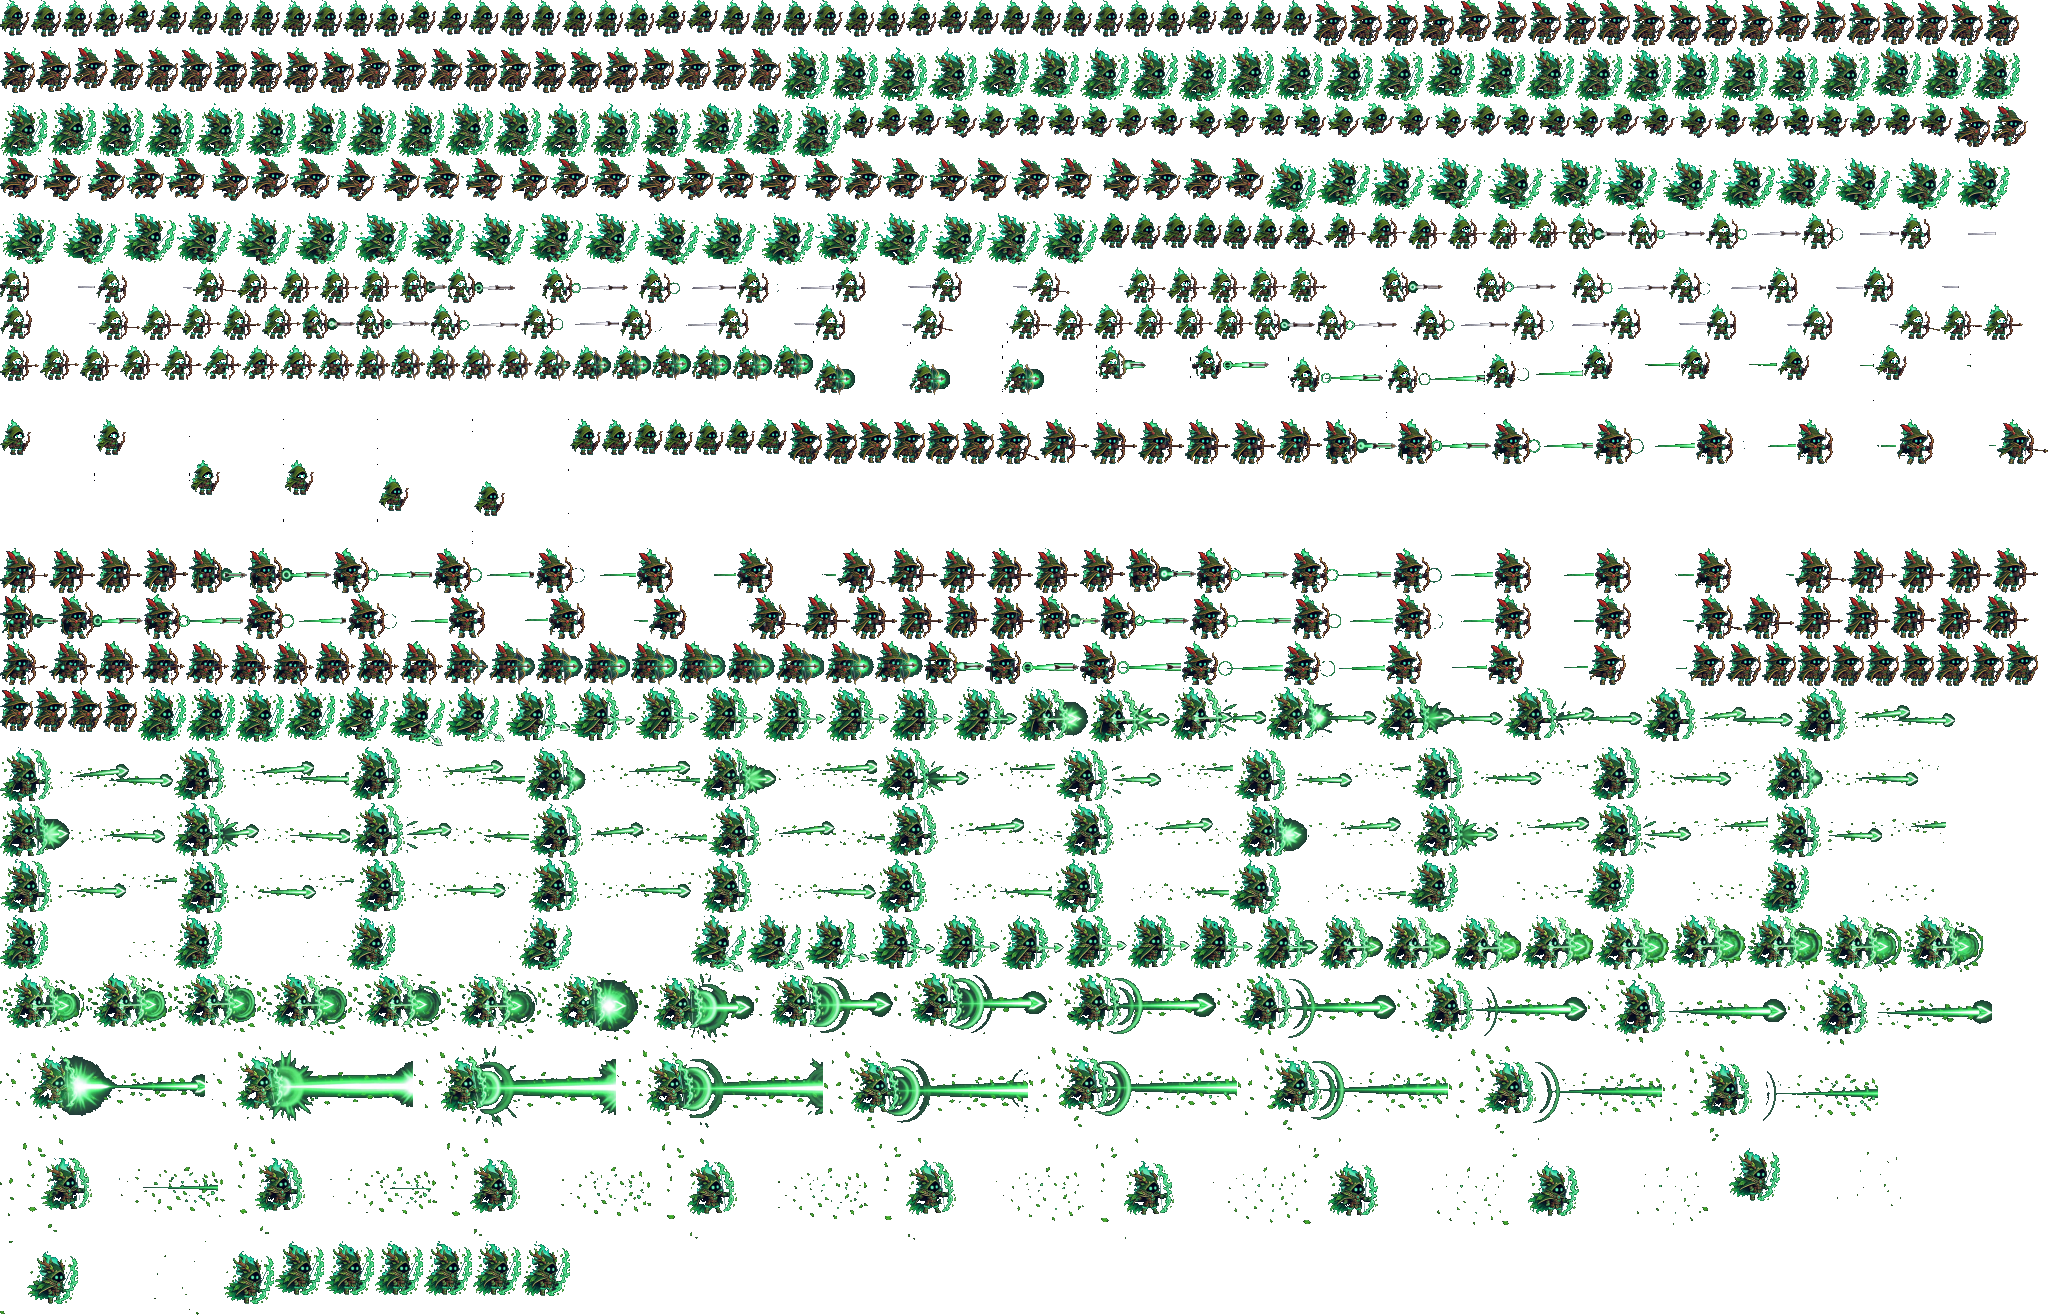
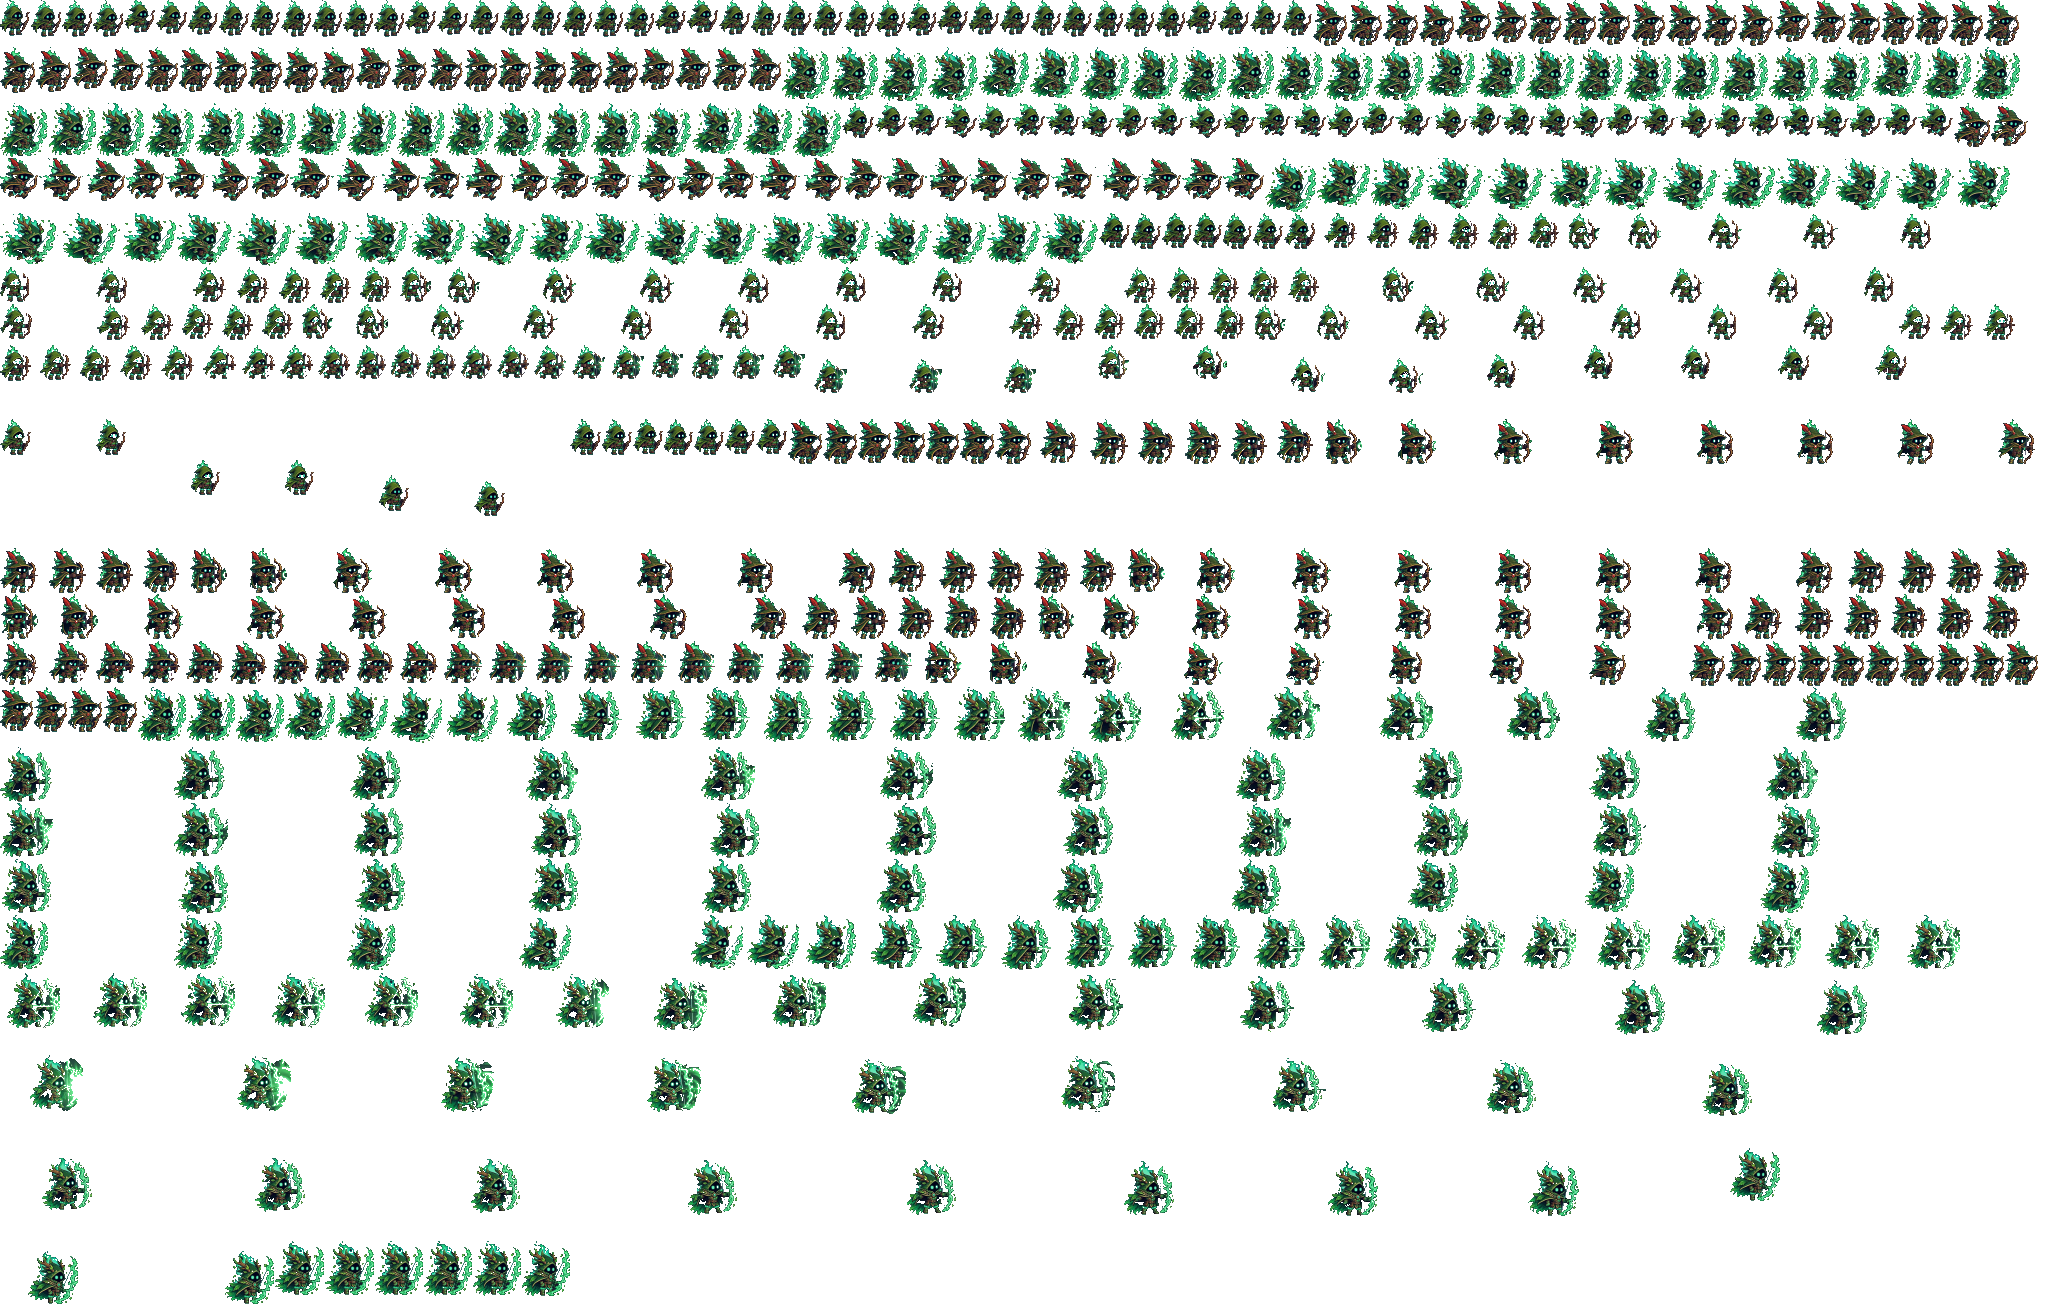
사냥꾼: 영상 프레임은 몸동작만, 영상 이펙트(쏘는 고리·모으기 빛·겹 고리·흰 화살)는 pixelfx로, 쏘면서 걷기
Claude-Session: https://claude.ai/code/session_01CPuQwRxjahy2BkbhjWZhoU

diff --git a/art/heroframes/fx_strip.py b/art/heroframes/fx_strip.py
@@ -1,0 +1,30 @@
+# 영상 공격 프레임에서 이펙트를 지우고 몸동작만 남긴다 (이펙트는 pixelfx로 따로 그린다).
+# 같은 단계 대기 프레임들의 모양(발 기준으로 겹친 것)을 조금 넓힌 자리 밖은 지우고(고리·빔·화살·잎),
+# 그 안에서도 대기 때 없던 아주 밝은 색(빛 덩어리)은 지운다. 마지막으로 몸에서 떨어진 조각을 지운다.
+# 실행: python3 art/heroframes/fx_strip.py <계보>   (index.html의 HERO.<계보>와 assets/hero_<계보>.png를 고친다)
+import sys, json, numpy as np
+from PIL import Image
+from scipy import ndimage
+LINE = sys.argv[1]; MOVES = sys.argv[2].split(",") if len(sys.argv) > 2 else ["attack"]
+s = open("index.html").read(); k = s.index(f"{LINE}: ", s.index("const HERO = {")) + len(LINE) + 2
+H, end = json.JSONDecoder().raw_decode(s[k:]); B = H["boxes"]
+sheet = np.asarray(Image.open(f"assets/hero_{LINE}.png").convert("RGBA")).copy()
+q = lambda px: (px[..., 0] >> 4).astype(int) * 256 + (px[..., 1] >> 4).astype(int) * 16 + (px[..., 2] >> 4).astype(int)
+done = set()
+for st, S in enumerate(H["stages"]):
+    if "idle" not in S: continue
+    pal = set(); R = 220; U = np.zeros((2 * R, 2 * R), bool)          # 발 기준 좌표 (R, R)
+    for ci, ox, oy in S["idle"]["f"]:
+        x, y, w, h = B[ci]; c = sheet[y:y + h, x:x + w]; pal |= set(np.unique(q(c)[c[..., 3] > 0]).tolist()); U[R + oy:R + oy + h, R + ox:R + ox + w] |= c[..., 3] > 0
+    U = ndimage.binary_dilation(U, iterations=2)
+    for mv in MOVES:
+        for ci, ox, oy in S.get(mv, {"f": []})["f"]:
+            if ci in done: continue
+            done.add(ci); x, y, w, h = B[ci]; c = sheet[y:y + h, x:x + w]
+            a = (c[..., 3] > 0) & U[R + oy:R + oy + h, R + ox:R + ox + w]    # 대기 모양을 넓힌 자리 안만
+            lum = c[..., :3].mean(axis=2); a &= ~(~np.isin(q(c), list(pal)) & (lum > 120))   # 대기 때 없던 아주 밝은 색 = 빛
+            lab, n = ndimage.label(ndimage.binary_dilation(a, iterations=1))  # 몸(가장 큰 덩어리)과 떨어진 조각은 지운다
+            if n > 1:
+                sz = ndimage.sum(a, lab, range(1, n + 1)); a &= lab == (int(np.argmax(sz)) + 1)
+            c[..., 3] = np.where(a, 255, 0)
+Image.fromarray(sheet).save(f"assets/hero_{LINE}.png", optimize=True); print("stripped", len(done))

diff --git a/art/hunterfx/hunterfx_pack.py b/art/hunterfx/hunterfx_pack.py
@@ -1,10 +1,11 @@
 # 사냥꾼 화살 이펙트: pixelfx(저장소 Pixel/pixelfx: projectiles/emerald-arrow, emerald-power-arrow, emerald-release, --sheet) → assets/gfx_*.png
-# art/golemfx/golemfx_pack.py와 같은 방식. 실행: python3 art/hunterfx/hunterfx_pack.py <render --out 폴더>
+# art/golemfx/golemfx_pack.py와 같은 방식. 실행: python3 art/hunterfx/hunterfx_pack.py 키=<render --out 폴더>:<효과 id> ...
+# 예: harrow=out:projectiles/emerald-arrow  harroww=outw:projectiles/emerald-arrow (흰 팔레트 --opts로 따로 렌더)
 import sys, json
 from PIL import Image
-src = sys.argv[1]  # render --out 폴더
 out = {}
-for key, sid in [("harrow", "projectiles/emerald-arrow"), ("hpow", "projectiles/emerald-power-arrow"), ("hrel", "projectiles/emerald-release")]:
+for arg in sys.argv[1:]:
+    key, rest = arg.split("="); src, sid = rest.rsplit(":", 1)
     name = sid.split("/")[1]; j = json.load(open(f"{src}/{sid}/{name}.json")); im = Image.open(f"{src}/{sid}/{name}.png").convert("RGBA")
     m = j["meta"]["pixelfx"]; fw, fh = m["frameSize"]; fr = [f["frame"] for f in j["frames"]]
     cells = [im.crop((f["x"], f["y"], f["x"] + fw, f["y"] + fh)) for f in fr]

diff --git a/진행 현황.md b/진행 현황.md
@@ -76,7 +76,7 @@
 ## 갑옷 빙의
 - 시범 완료: 보이드 기본 조각 + 병사 계보 3단계 몸통·장비 (`assets/armor.png`, `art/armor/armor_cut.py`, `drawArmorSprite`)
 - (변경) 통짜 프레임: 병사 계보 대기·달리기 완료 (`assets/hero_soldier.png`, `art/heroframes/hero_cut.py`, `drawHeroFrames`). 영상 B(3연타·돌격) 완료, 대기 중 뜨던 것 고침
-- 사냥꾼 계보 대기·달리기 완료 (`assets/hero_hunter.png`, 원본 `art/heroframes/hunter_idle_run_source.mp4`). B-1(1·2단계 공격) 완료: `art/heroframes/hunter_s12_attack_source.mp4`, seg sh(속사)·ch(모으기)·pw(강한 화살), 영상 속 화살은 clip으로 뺌. B-2(3단계 공격) 완료: `hunter_s3_attack_source.mp4`. **사냥꾼 계보 영상 전부 완료**. 화살은 pixelfx `assets/gfx_harrow·hpow·hrel.png` (art/hunterfx). 화살 적중은 히트스톱 없음(ranged)
+- 사냥꾼 계보 대기·달리기 완료 (`assets/hero_hunter.png`, 원본 `art/heroframes/hunter_idle_run_source.mp4`). B-1(1·2단계 공격) 완료: `art/heroframes/hunter_s12_attack_source.mp4`, seg sh(속사)·ch(모으기)·pw(강한 화살), 영상 속 화살은 clip으로 뺌. B-2(3단계 공격) 완료: `hunter_s3_attack_source.mp4`. **사냥꾼 계보 영상 전부 완료**. 공격 프레임은 이펙트를 지운 몸동작만 (`art/heroframes/fx_strip.py hunter`, hero_cut 다시 돌리면 이것도 다시), 영상 이펙트는 pixelfx로 재현: `assets/gfx_harrow·harroww·hpow·hrel·hring·hringw·hchg·hchg3.png` (art/hunterfx). 쏘면서·모으면서 걷기 가능. 화살 적중은 히트스톱 없음(ranged)
 - 챕터 2 코드: 골렘 처치 → 출구 문 "요새로" → `ROOMS2` (전투 3 → 도적+사제 → 전투 3 → 암시장 → 쌍둥이 기사단장). 적 `crossbow` `heavy` `cavalry` `handler`, 정예 방은 `banner`+`flag`. 도적 `adv_thief` AI, 사제가 동료에게 보호막. 보스 `knight_s`·`knight_b` (`twinAI`, X자 돌진·방패 발판, 한 명 쓰러지면 분노). 보스 체력바 여러 개
 - 챕터 2 그림 받음(9d8f835): 배경 2, 지형, 소품, 앞 실루엣, 석궁병, 중갑 기사, 쌍둥이 기사단장(`assets/ch2_twins.png`, 정지 그림을 기울여 움직임), 방 소품(`assets/room_objects.png`: 이벤트 4·상자 3·투구 무덤). `art/ch2/ch2_cut.py`, `art/room/room_cut.py`, `art/enemies/enemies_cut.py`(원본 있는 것만)
 - 투구 새 구상 확정: 서리 늑대(새, 얼음), 괴도(도적), 용광로 거인(대장장이), 장수풍뎅이 기사(방패병 대신, 탱커), 유령선 선장(나무꾼 대신). 견습 마법사는 그대로, 나중에 다른 속성. 라인업 프롬프트는 이미지 프롬프트 전체.md `[line_*]`. 라인업 5장 전부 확정 (`art/heroframes/*_lineup_source.png`): 서리 늑대, 괴도, 유령선 선장(3단계 폭풍 제독), 장수풍뎅이 기사(방패병 대신), 처형인(대장장이 대신: 망나니 → 사형 집행관 → 단두대의 군주, 낙인 3개 → 처형). 코드는 영상이 준비될 때 그 투구부터 한 번에 (사용자 요청). 투구마다 영상 3개 (대기·달리기 / 1·2단계 공격 / 3단계 공격)
